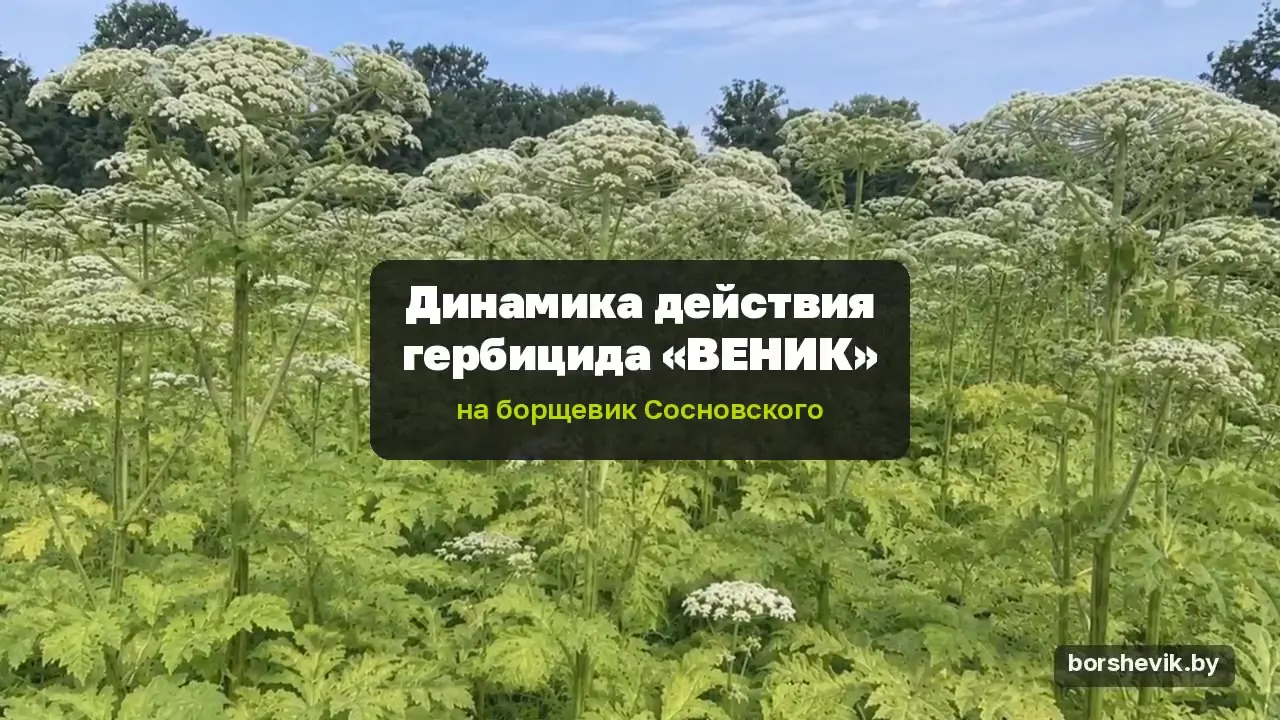
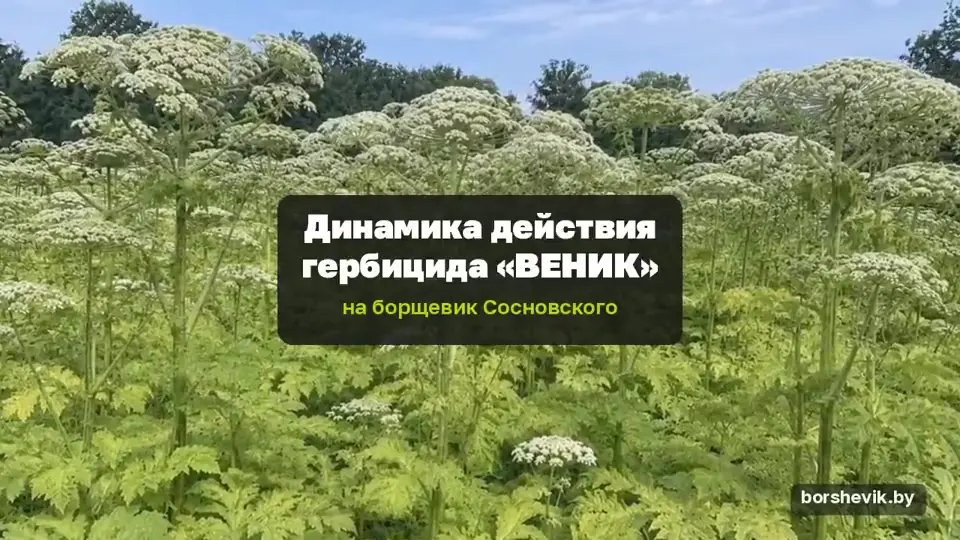
video: lighter file + lazy loading

Changed region(s): [[0.5312, 0.563, 0.625, 0.5926], [0.4062, 0.563, 0.5, 0.5926]]

diff --git a/app.js b/app.js
@@ -125,5 +125,23 @@
   });
   totop?.addEventListener('click', () => window.scrollTo({ top: 0, behavior: 'smooth' }));
 
+  const tlvideo = document.querySelector('.tlvideo');
+  if (tlvideo && 'IntersectionObserver' in window) {
+    const vio = new IntersectionObserver((entries) => {
+      entries.forEach(entry => {
+        if (!entry.isIntersecting) return;
+        const v = entry.target;
+        if (!v.src && v.dataset.src) {
+          v.src = v.dataset.src;
+          v.play().catch(() => {});
+        }
+        vio.unobserve(v);
+      });
+    }, { rootMargin: '400px' });
+    vio.observe(tlvideo);
+  } else if (tlvideo && tlvideo.dataset.src) {
+    tlvideo.src = tlvideo.dataset.src;
+  }
+
   calculate();
 })();

diff --git a/index.html b/index.html
@@ -75,7 +75,7 @@
 <figure class="photo"><img src="assets/before-treatment.webp" alt="Куртина борщевика Сосновского до обработки гербицидом ВЕНИК" loading="lazy" width="1400" height="1050"><figcaption>До обработки</figcaption></figure>
 <figure class="photo"><img src="assets/after-treatment.webp" alt="Та же куртина борщевика после обработки: хлороз и усыхание" loading="lazy" width="1400" height="1050"><figcaption>После обработки</figcaption></figure>
 </div>
-<figure class="photo videobox"><video class="tlvideo" src="assets/venik-timelapse-web.mp4" poster="assets/venik-timelapse-poster.webp" autoplay muted loop playsinline preload="metadata" controlsList="nodownload" disablePictureInPicture oncontextmenu="return false"></video><figcaption>Тайм-лапс: 30 дней после обработки за 17 секунд. Съёмка с одной точки.</figcaption></figure>
+<figure class="photo videobox"><video class="tlvideo" data-src="assets/venik-timelapse-web.mp4" poster="assets/venik-timelapse-poster.webp" autoplay muted loop playsinline preload="none" controlsList="nodownload" disablePictureInPicture oncontextmenu="return false"></video><figcaption>Тайм-лапс: 30 дней после обработки за 17 секунд. Съёмка с одной точки.</figcaption></figure>
 </div></section>
 
 <section class="calc" id="calculator"><div class="wrap"><div class="label">Предварительный расчёт</div><h2>Сколько препарата требуется на вашу площадь</h2><p class="sub">Калькулятор использует максимальную норму 0,35 кг/га и округляет количество вверх до целых флаконов по 0,5 кг.</p><div class="calcbox">